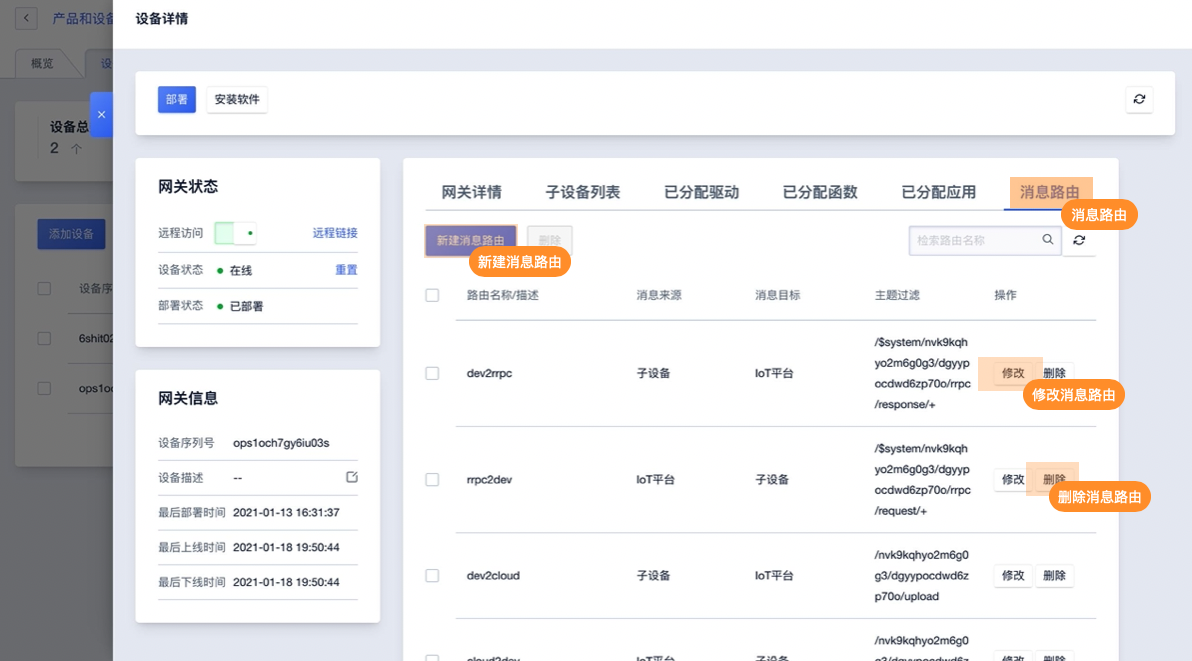
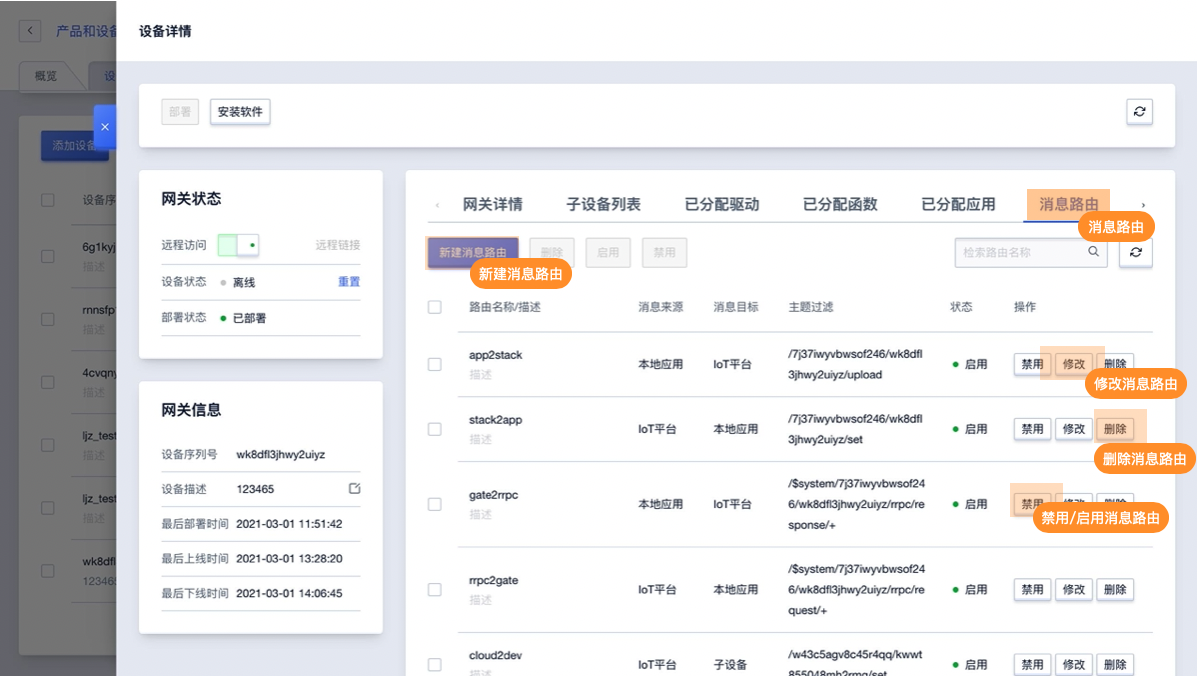
add_docs

diff --git a/控制台操作指南/网关管理/本地控制台操作指南/操作指南.md b/控制台操作指南/网关管理/本地控制台操作指南/操作指南.md
@@ -262,7 +262,13 @@
 
 ![](../../../images/本地控制台-19.png)
 
+### 4、禁用/启用消息路由
 
+选中需要操作的消息路由进行操作即可，即时生效无需部署。
+
+![](../../../images/本地控制台-23.png)
+
+- 消息路由名称：该消息路由的名称；
 
 ## 日志设置
 

diff --git a/控制台操作指南/网关管理/消息路由/消息路由配置详解.md b/控制台操作指南/网关管理/消息路由/消息路由配置详解.md
@@ -55,5 +55,11 @@
 
 ![图片](../../images/消息路由-7.png)
 
+### 禁用启用消息路由
+
+选择需要操作的消息路由进行禁用/启用即可，操作后需重新部署网关方可生效。
+
+![图片](../../images/消息路由-8.png)
+
 
 
